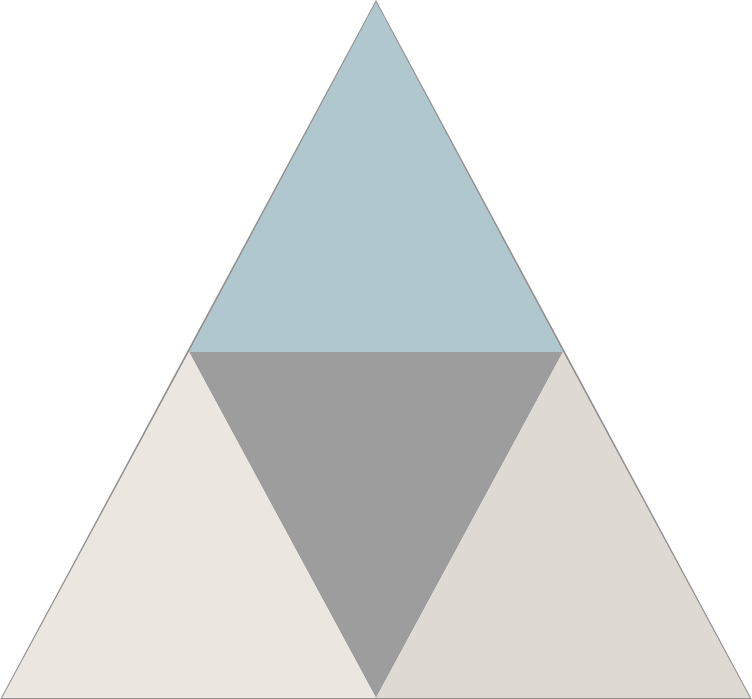
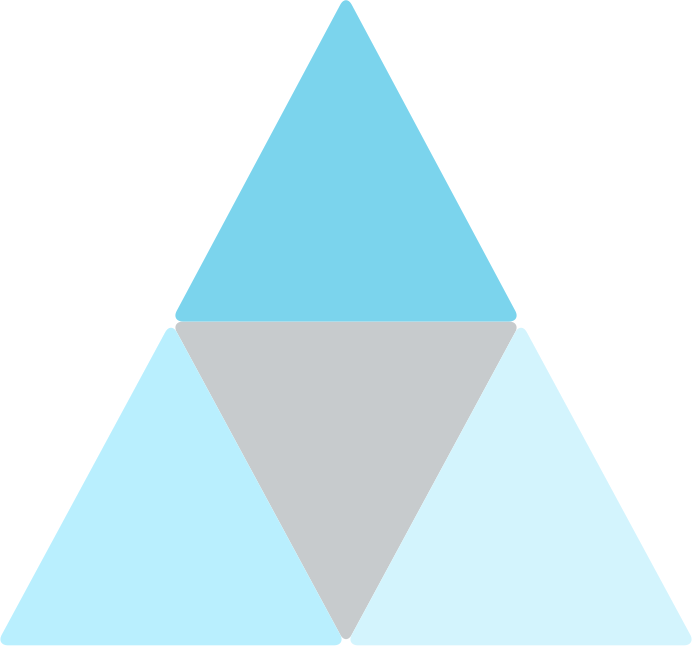
sketch import

diff --git a/framer/framer.generated.js b/framer/framer.generated.js
@@ -19,7 +19,7 @@ window.__imported__["kristasasse@1x/layers.json.js"] = [
 		"metadata": {},
 		"backgroundColor": "rgba(255, 255, 255, 1)",
 		"image": {
-			"path": "images/Layer-krista-rjfcndhg.jpg",
+			"path": "images/Layer-krista-rjfcndhg.png",
 			"frame": {
 				"x": 0,
 				"y": 0,
@@ -34,29 +34,56 @@ window.__imported__["kristasasse@1x/layers.json.js"] = [
 				"name": "trigroup",
 				"maskFrame": null,
 				"layerFrame": {
-					"x": -1,
-					"y": 252,
-					"width": 752,
-					"height": 699
+					"x": 29,
+					"y": 310,
+					"width": 692,
+					"height": 646
 				},
 				"visible": true,
 				"metadata": {
-					"opacity": 0.8176888992537313
+					"opacity": 0.7866721082089553
 				},
 				"image": {
 					"path": "images/Layer-trigroup-qkzbqjkx.png",
 					"frame": {
-						"x": -1,
-						"y": 252,
-						"width": 752,
-						"height": 699
+						"x": 29,
+						"y": 310,
+						"width": 692,
+						"height": 646
 					}
 				},
 				"children": [],
-				"time": 205
+				"time": 167
+			},
+			{
+				"objectId": "BA056AE0-0D79-49AE-BADC-4DCC554891B2",
+				"kind": "group",
+				"name": "kristabak",
+				"maskFrame": null,
+				"layerFrame": {
+					"x": -708,
+					"y": -44,
+					"width": 2116,
+					"height": 1414
+				},
+				"visible": true,
+				"metadata": {
+					"opacity": 1
+				},
+				"image": {
+					"path": "images/Layer-kristabak-qkewntzb.png",
+					"frame": {
+						"x": -708,
+						"y": -44,
+						"width": 2116,
+						"height": 1414
+					}
+				},
+				"children": [],
+				"time": 2050
 			}
 		],
-		"time": 569
+		"time": 2316
 	}
 ]
 if (DeviceComponent) {DeviceComponent.Devices["iphone-6-silver"].deviceImageJP2 = false};

diff --git a/imported/kristasasse@1x/layers.json.js b/imported/kristasasse@1x/layers.json.js
@@ -15,7 +15,7 @@ window.__imported__["kristasasse@1x/layers.json.js"] = [
 		"metadata": {},
 		"backgroundColor": "rgba(255, 255, 255, 1)",
 		"image": {
-			"path": "images/Layer-krista-rjfcndhg.jpg",
+			"path": "images/Layer-krista-rjfcndhg.png",
 			"frame": {
 				"x": 0,
 				"y": 0,
@@ -30,28 +30,55 @@ window.__imported__["kristasasse@1x/layers.json.js"] = [
 				"name": "trigroup",
 				"maskFrame": null,
 				"layerFrame": {
-					"x": -1,
-					"y": 252,
-					"width": 752,
-					"height": 699
+					"x": 29,
+					"y": 310,
+					"width": 692,
+					"height": 646
 				},
 				"visible": true,
 				"metadata": {
-					"opacity": 0.8176888992537313
+					"opacity": 0.7866721082089553
 				},
 				"image": {
 					"path": "images/Layer-trigroup-qkzbqjkx.png",
 					"frame": {
-						"x": -1,
-						"y": 252,
-						"width": 752,
-						"height": 699
+						"x": 29,
+						"y": 310,
+						"width": 692,
+						"height": 646
 					}
 				},
 				"children": [],
-				"time": 205
+				"time": 167
+			},
+			{
+				"objectId": "BA056AE0-0D79-49AE-BADC-4DCC554891B2",
+				"kind": "group",
+				"name": "kristabak",
+				"maskFrame": null,
+				"layerFrame": {
+					"x": -708,
+					"y": -44,
+					"width": 2116,
+					"height": 1414
+				},
+				"visible": true,
+				"metadata": {
+					"opacity": 1
+				},
+				"image": {
+					"path": "images/Layer-kristabak-qkewntzb.png",
+					"frame": {
+						"x": -708,
+						"y": -44,
+						"width": 2116,
+						"height": 1414
+					}
+				},
+				"children": [],
+				"time": 2050
 			}
 		],
-		"time": 569
+		"time": 2316
 	}
 ]

diff --git a/.viewer.html b/.viewer.html
@@ -29,7 +29,7 @@
 
 		<script src="framer/coffee-script.js"></script>
 		<script src="framer/framer.js?nocache=c8f2f534ca2e965f305c299c7080565c"></script>
-		<script src="framer/framer.generated.js?nocache=c6a10d2da04711cedff52be08bb43009"></script>
+		<script src="framer/framer.generated.js?nocache=cdd4fd5bab39ded8ceb097a4df5f3946"></script>
 		<script src="framer/framer.modules.js?nocache=3928e67daeb4b02ea57da22cf68cd23f"></script>
 		<script src="framer/framer.init.js"></script>
 
